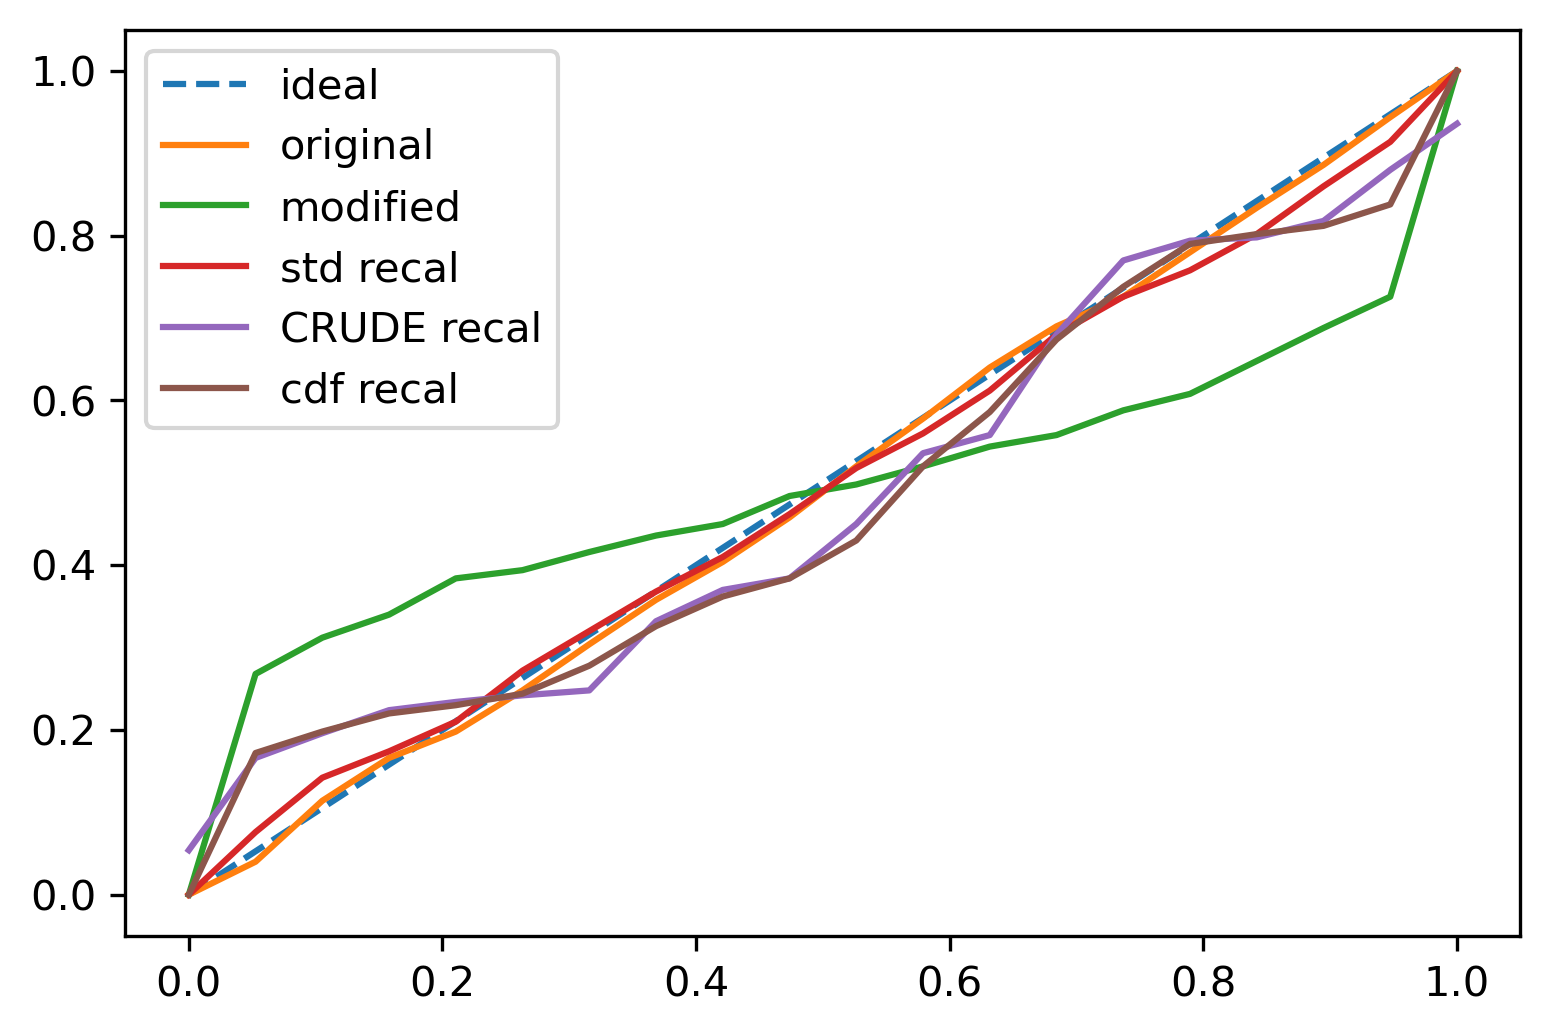
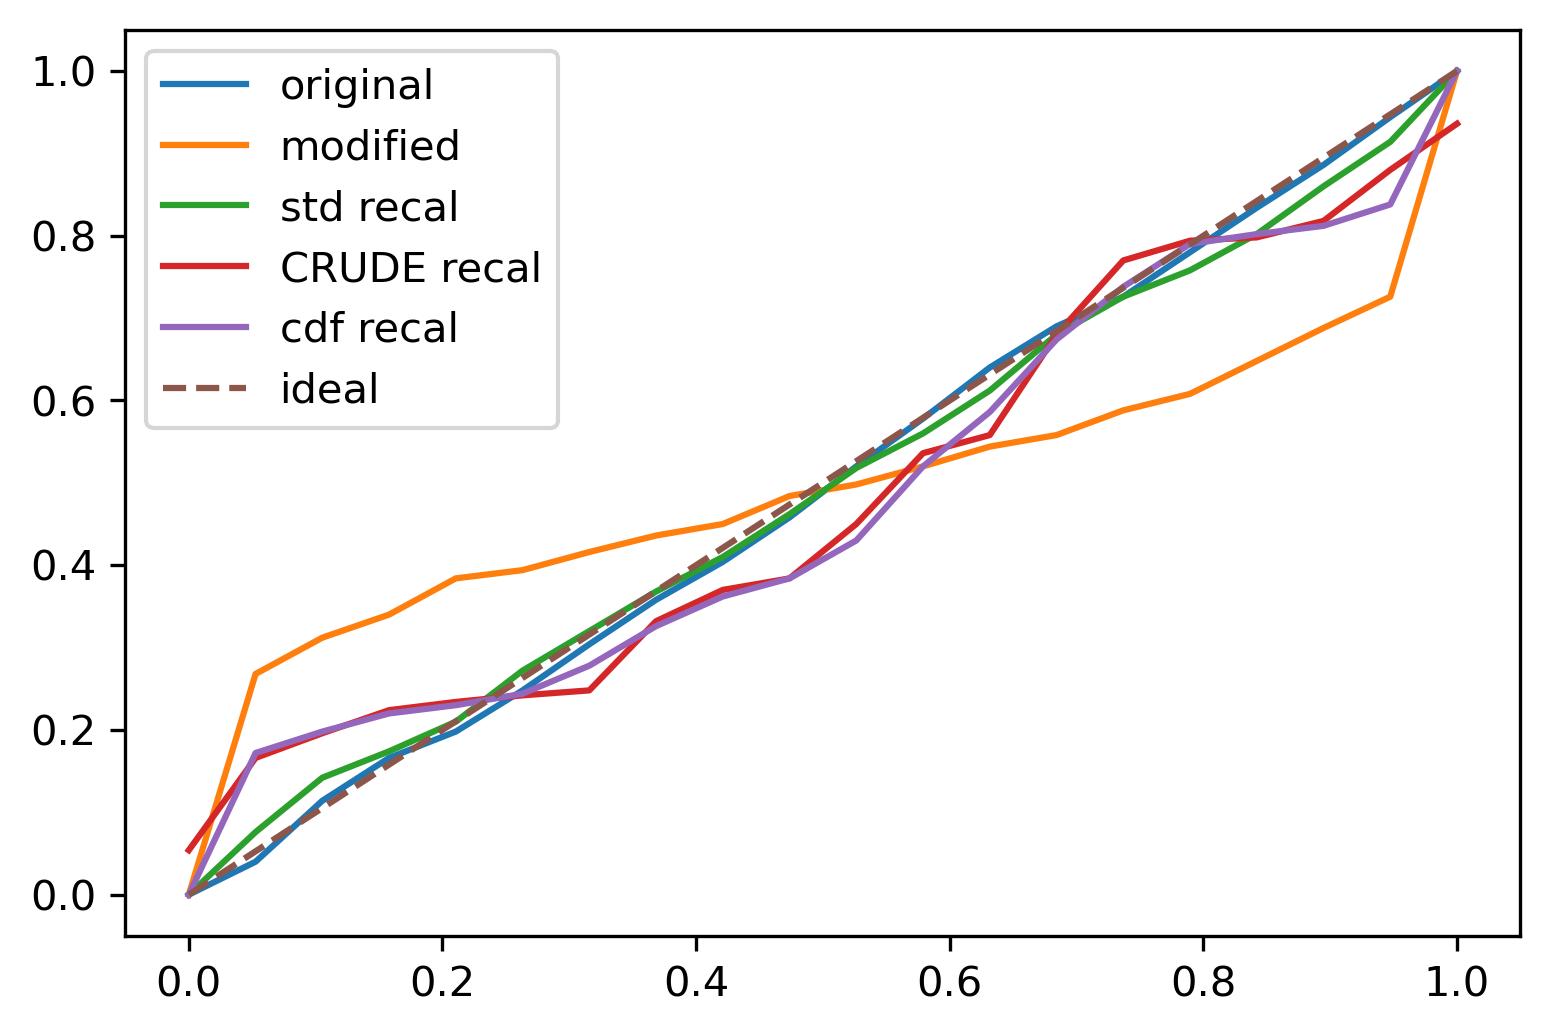
mn

diff --git a/examples/caller.py b/examples/caller.py
@@ -142,26 +142,33 @@ for i, (p, r) in enumerate([(0, 0), (0, 1), (1, 0), (1, 1), (1, 2)]):
 plt.savefig('hist_inc.png', dpi = 300, bbox_inches="tight")
 plt.show()
 #%%
-plt.plot([0, 1], [0, 1], "--", label='ideal')
 labels = ['original', 'modified', 'std recal', 'CRUDE recal', 'cdf recal']
 for i in range(len(stds_final)):
     plt.plot(exp_props[i], obs_props[i], label=labels[i])
+plt.plot([0, 1], [0, 1], "--", label='ideal')
 plt.legend()
 plt.savefig('calibration_inc.png', dpi = 300, bbox_inches="tight")
 plt.show()
 
-plt.plot(modifier, label = 'modifier')
+# plt.plot(modifier, label = 'modifier')
 for i in range(len(stds_final)):
-    plt.plot(stds_final[i], label=labels[i])
+    plt.plot(x_tot, stds_final[i], label=labels[i])
 plt.legend()
 plt.savefig('std_inc.png', dpi = 300, bbox_inches="tight")
 plt.show()
 
-plt.plot(modifier, label = 'modifier')
+# plt.plot(modifier, label = 'modifier')
 for i in range(len(stds_final)):   
-    plt.plot(intervals[i][1] - intervals[i][0], label=labels[i])
+    plt.plot(x_tot, intervals[i][1] - intervals[i][0], label=labels[i])
 plt.legend()
 plt.savefig('perc_inc.png', dpi = 300, bbox_inches="tight")
+plt.show()
+
+# plt.plot(modifier, label = 'modifier')
+for i in range(len(stds_final)):   
+    plt.plot(x_tot, (intervals[i][1] - intervals[i][0]) / stds_final[i], label=labels[i])
+plt.legend()
+plt.savefig('non_normal_inc.png', dpi = 300, bbox_inches="tight")
 plt.show()
 
 
